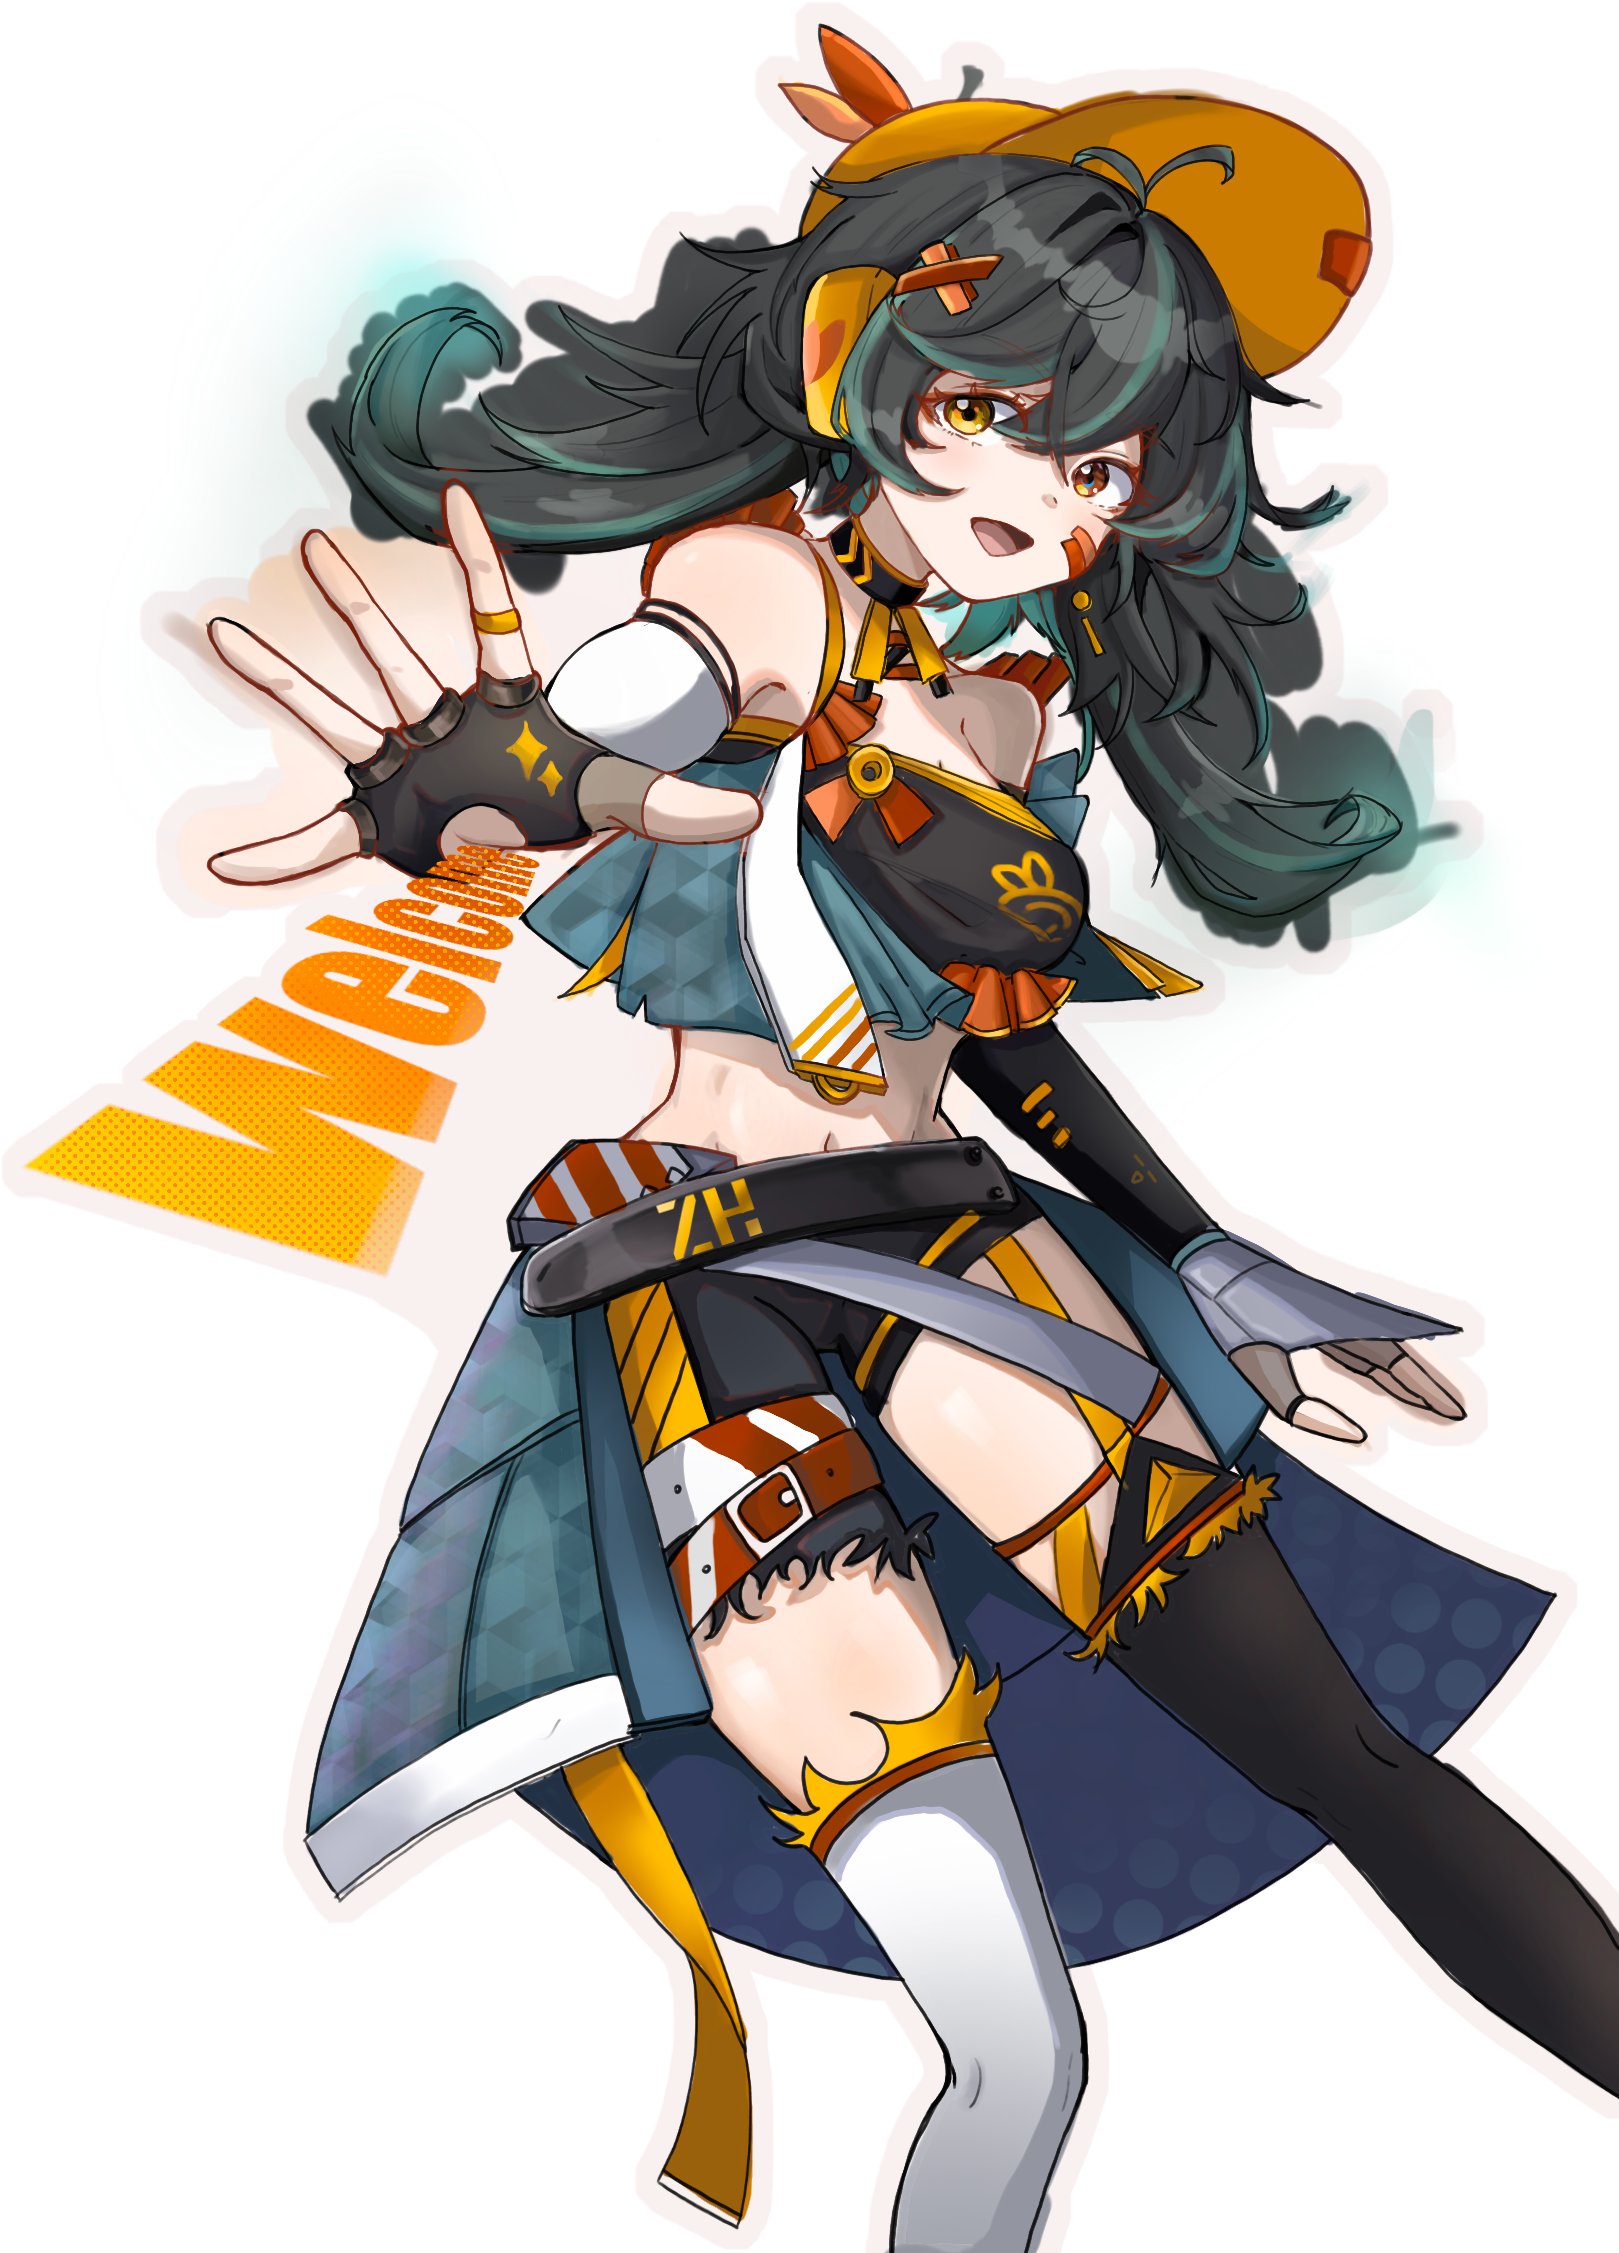
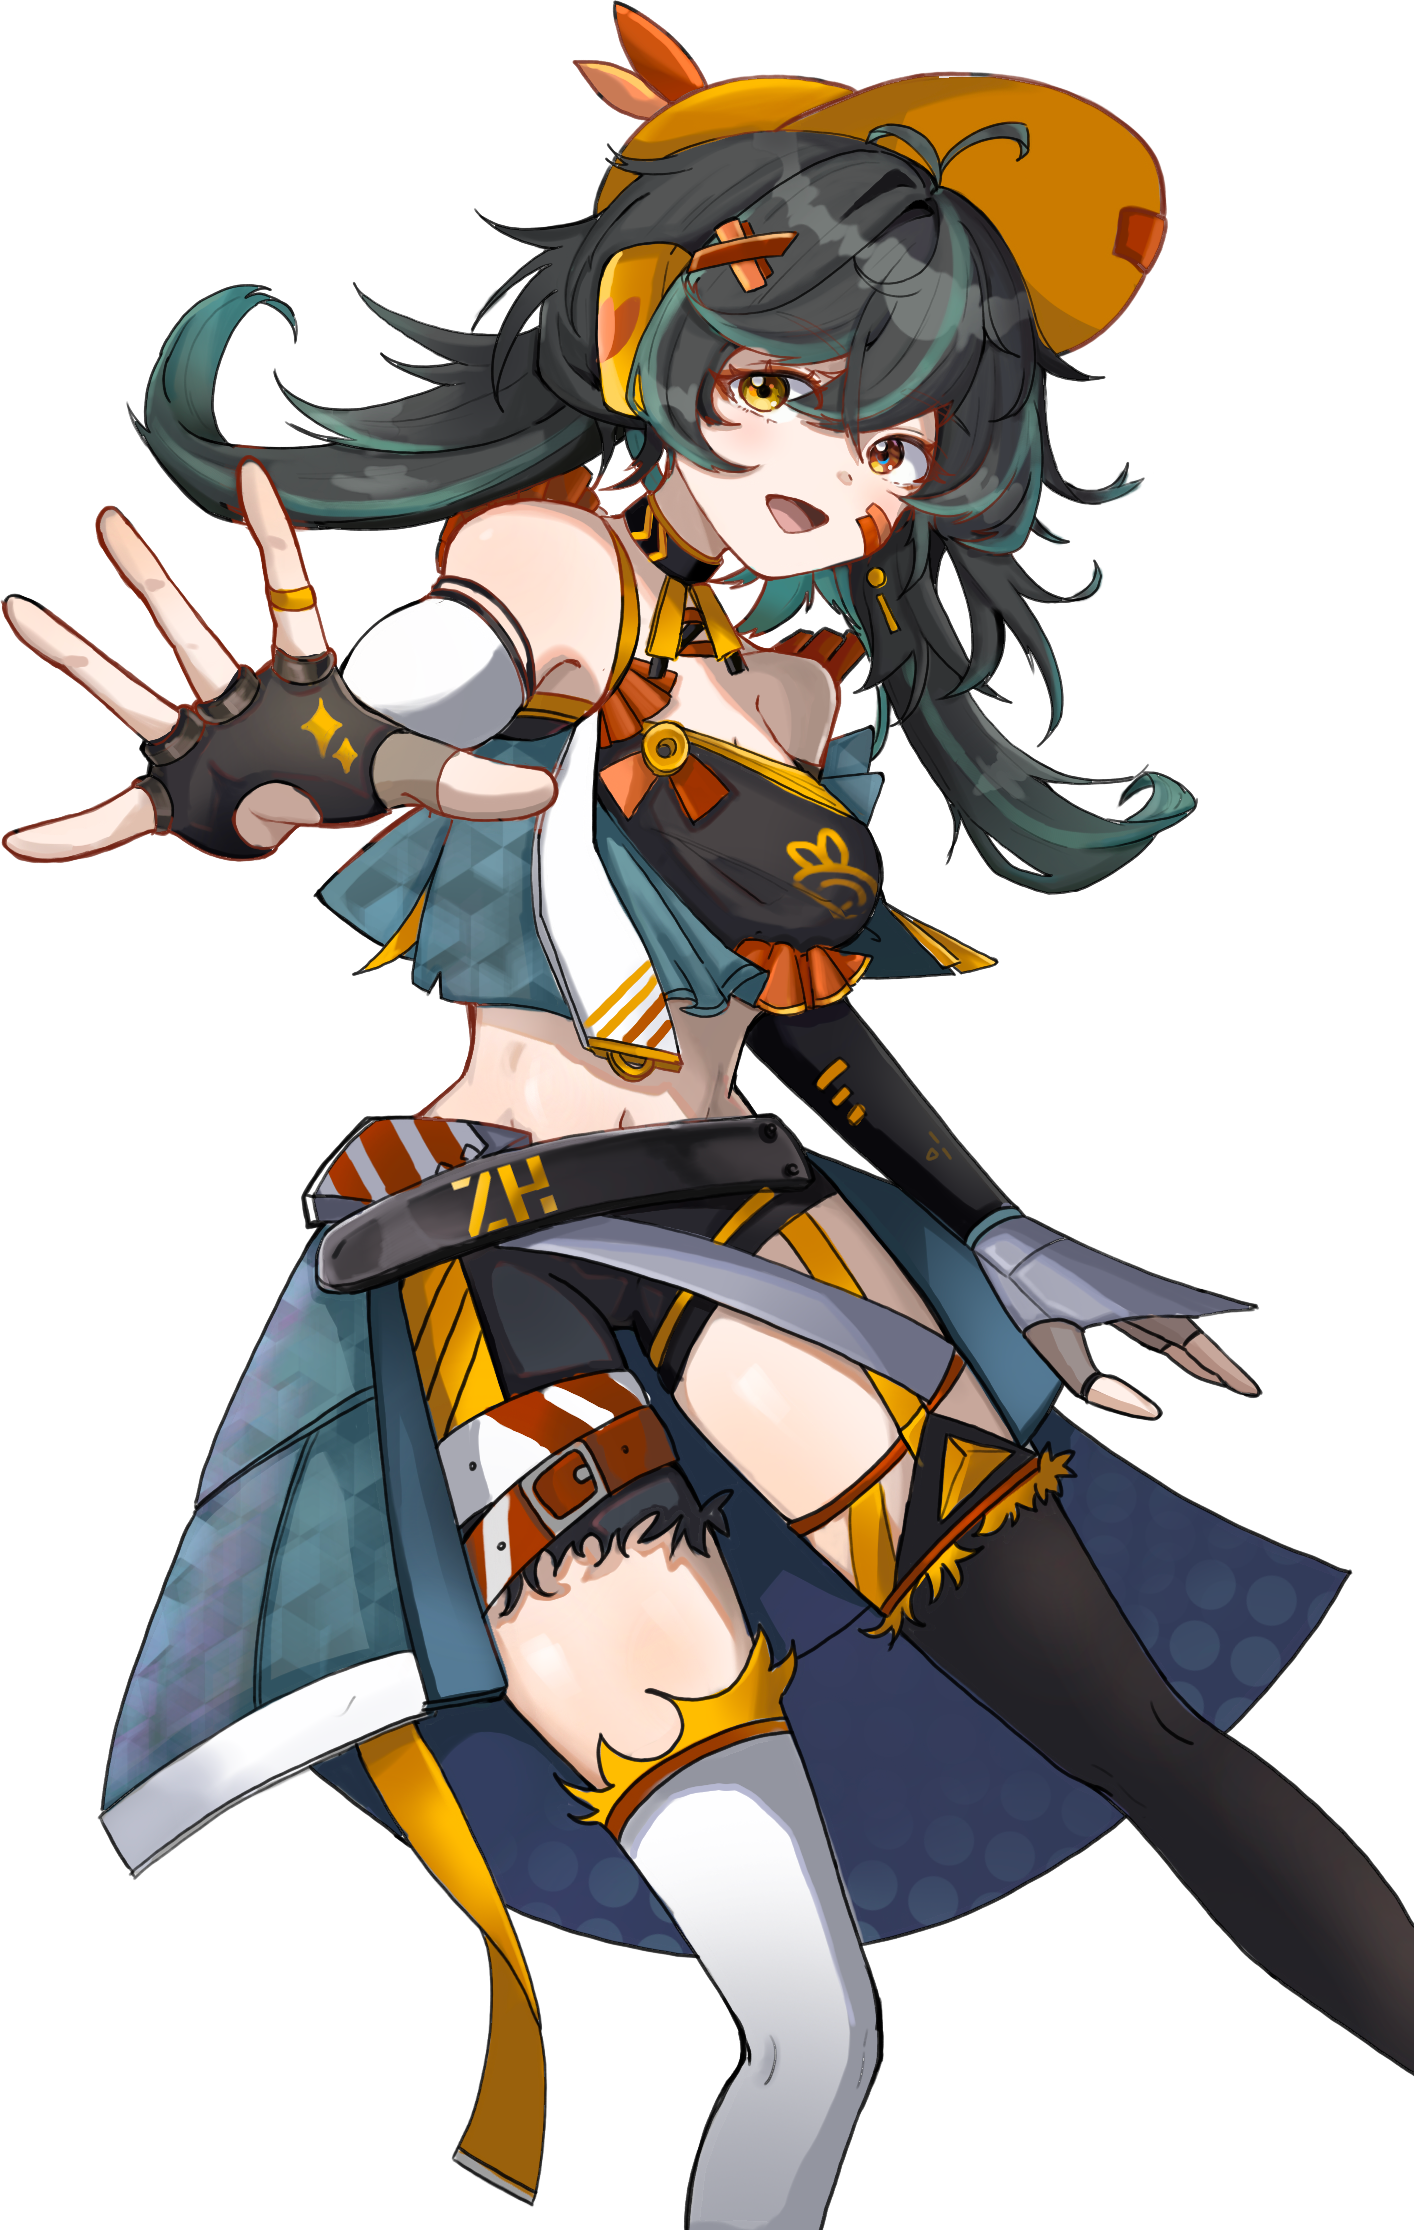
更改了配色，更改了背景图片，更改了VIVI立绘   LZX-git-2025-01-14-008

diff --git a/css/style.css b/css/style.css
@@ -21,7 +21,7 @@
     height: 600px;*/
     width: 100vw;
     height: 100vh;
-    background: #293462;
+    background: #1C1925;
     position: relative;
     overflow: hidden;
     margin: auto auto;
@@ -54,7 +54,7 @@
     position: absolute;
     top: 10px;
     left: 10px;
-    color: white;
+    color: #F9E4C5;
     font-size: 20px;
     z-index: 100;
     font-family: Arial, "Microsoft YaHei", sans-serif;
@@ -63,7 +63,7 @@
     position: absolute;
     top: 50px;
     left: 10px;
-    color: white;
+    color: #F9E4C5;
     font-size: 20px;
     z-index: 100;
     font-family: Arial, "Microsoft YaHei", sans-serif;
@@ -75,9 +75,9 @@
 }
 #gameEndMsg {
     position: absolute;
-    top: 1%;
-    left: 1%;
-    color: #FFF3C1;
+    top: 5%;
+    left: 3%;
+    color: #F9E4C5;
     font-size: 1hv;
     z-index: 101;
     font-weight: bold;
@@ -86,7 +86,7 @@
 #gameDialogBar {
     width: 100%;
     height: 20%;
-    background: #FF5F57;
+    background: #CB7B00;
     position: absolute;
     bottom: -1000px;
     left: -1000px;
@@ -108,8 +108,8 @@
     left: 50%; 
     transform: translateX(-50%); /* 水平居中 */
     padding: 1% 2%; /* 内边距 */
-    background-color: #A84943; /* 背景颜色 */
-    color: #FFF3C1; /* 文字颜色 */
+    background-color: #AA3300; /* 背景颜色 */
+    color: #F9E4C5; /* 文字颜色 */
     border: none; /* 无边框 */
     border-radius: 5px; /* 圆角 */
     cursor: pointer; /* 鼠标指针样式 */
